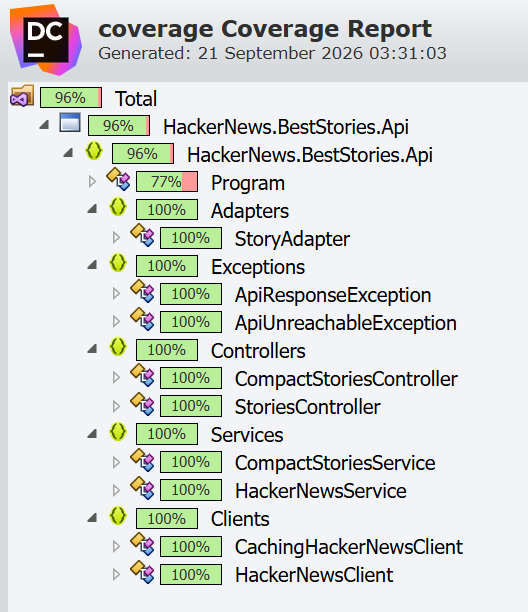
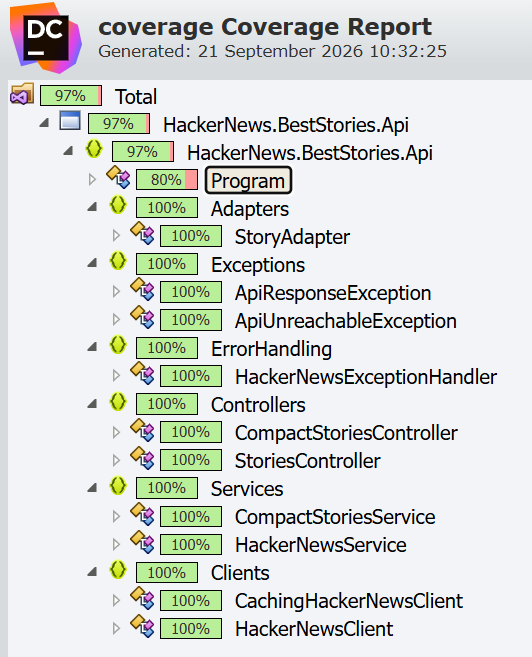
test: add coverage for Hacker News exception handling

Changed region(s): [[0.0, 0.0, 1.0, 0.9935]]

diff --git a/HackerNews.BestStories.Api.UnitTests/ErrorHandling/HackerNewsExceptionHandlerTests.cs b/HackerNews.BestStories.Api.UnitTests/ErrorHandling/HackerNewsExceptionHandlerTests.cs
@@ -1,0 +1,90 @@
+namespace HackerNews.BestStories.Api.UnitTests.ErrorHandling;
+
+using System.Net;
+using System.Text.Json;
+using Exceptions;
+using HackerNews.BestStories.Api.ErrorHandling;
+using Microsoft.AspNetCore.Http;
+using Microsoft.Extensions.DependencyInjection;
+using Microsoft.Extensions.Logging.Abstractions;
+
+public class HackerNewsExceptionHandlerTests
+{
+    [Fact]
+    public async Task WhenApiIsUnreachable_ShouldReturnServiceUnavailable()
+    {
+        var expectedException = new ApiUnreachableException("The Hacker News API could not be reached.", new HttpRequestException());
+
+        await AssertHandledAsync(expectedException, HttpStatusCode.ServiceUnavailable);
+    }
+
+    [Fact]
+    public async Task WhenApiReturnsError_ShouldReturnBadGateway()
+    {
+        var expectedException = new ApiResponseException("The Hacker News API returned an error.");
+
+        await AssertHandledAsync(expectedException, HttpStatusCode.BadGateway);
+    }
+
+    [Fact]
+    public async Task WhenExceptionIsNotHandled_ShouldReturnFalse()
+    {
+        await using var serviceProvider = CreateServiceProvider();
+        var httpContext = CreateHttpContext(serviceProvider);
+        var sut = new HackerNewsExceptionHandler(NullLogger<HackerNewsExceptionHandler>.Instance);
+
+        var actual = await sut.TryHandleAsync(
+            httpContext,
+            new InvalidOperationException("Test"),
+            CancellationToken.None);
+
+        Assert.False(actual);
+        Assert.Equal(StatusCodes.Status200OK, httpContext.Response.StatusCode);
+        Assert.Equal(0, httpContext.Response.Body.Length);
+    }
+
+    private static async Task AssertHandledAsync(
+        Exception exception,
+        HttpStatusCode expectedStatusCode)
+    {
+        await using var serviceProvider = CreateServiceProvider();
+        var httpContext = CreateHttpContext(serviceProvider);
+
+        var sut = new HackerNewsExceptionHandler(NullLogger<HackerNewsExceptionHandler>.Instance);
+
+        var actual = await sut.TryHandleAsync(
+            httpContext,
+            exception,
+            CancellationToken.None);
+
+        Assert.True(actual);
+        Assert.Equal((int)expectedStatusCode, httpContext.Response.StatusCode);
+        httpContext.Response.Body.Position = 0;
+        using var document = await JsonDocument.ParseAsync(httpContext.Response.Body);
+        var root = document.RootElement;
+        Assert.Equal("Hacker News API error", root.GetProperty("title").GetString());
+        Assert.Equal((int)expectedStatusCode, root.GetProperty("status").GetInt32());
+        Assert.Equal(exception.Message, root.GetProperty("detail").GetString());
+    }
+
+    private static ServiceProvider CreateServiceProvider()
+    {
+        var services = new ServiceCollection()
+            .AddLogging()
+            .AddProblemDetails();
+
+        return services.BuildServiceProvider();
+    }
+
+    private static DefaultHttpContext CreateHttpContext(IServiceProvider serviceProvider)
+    {
+        return new DefaultHttpContext
+        {
+            RequestServices = serviceProvider,
+            Response =
+            {
+                Body = new MemoryStream()
+            }
+        };
+    }
+}
